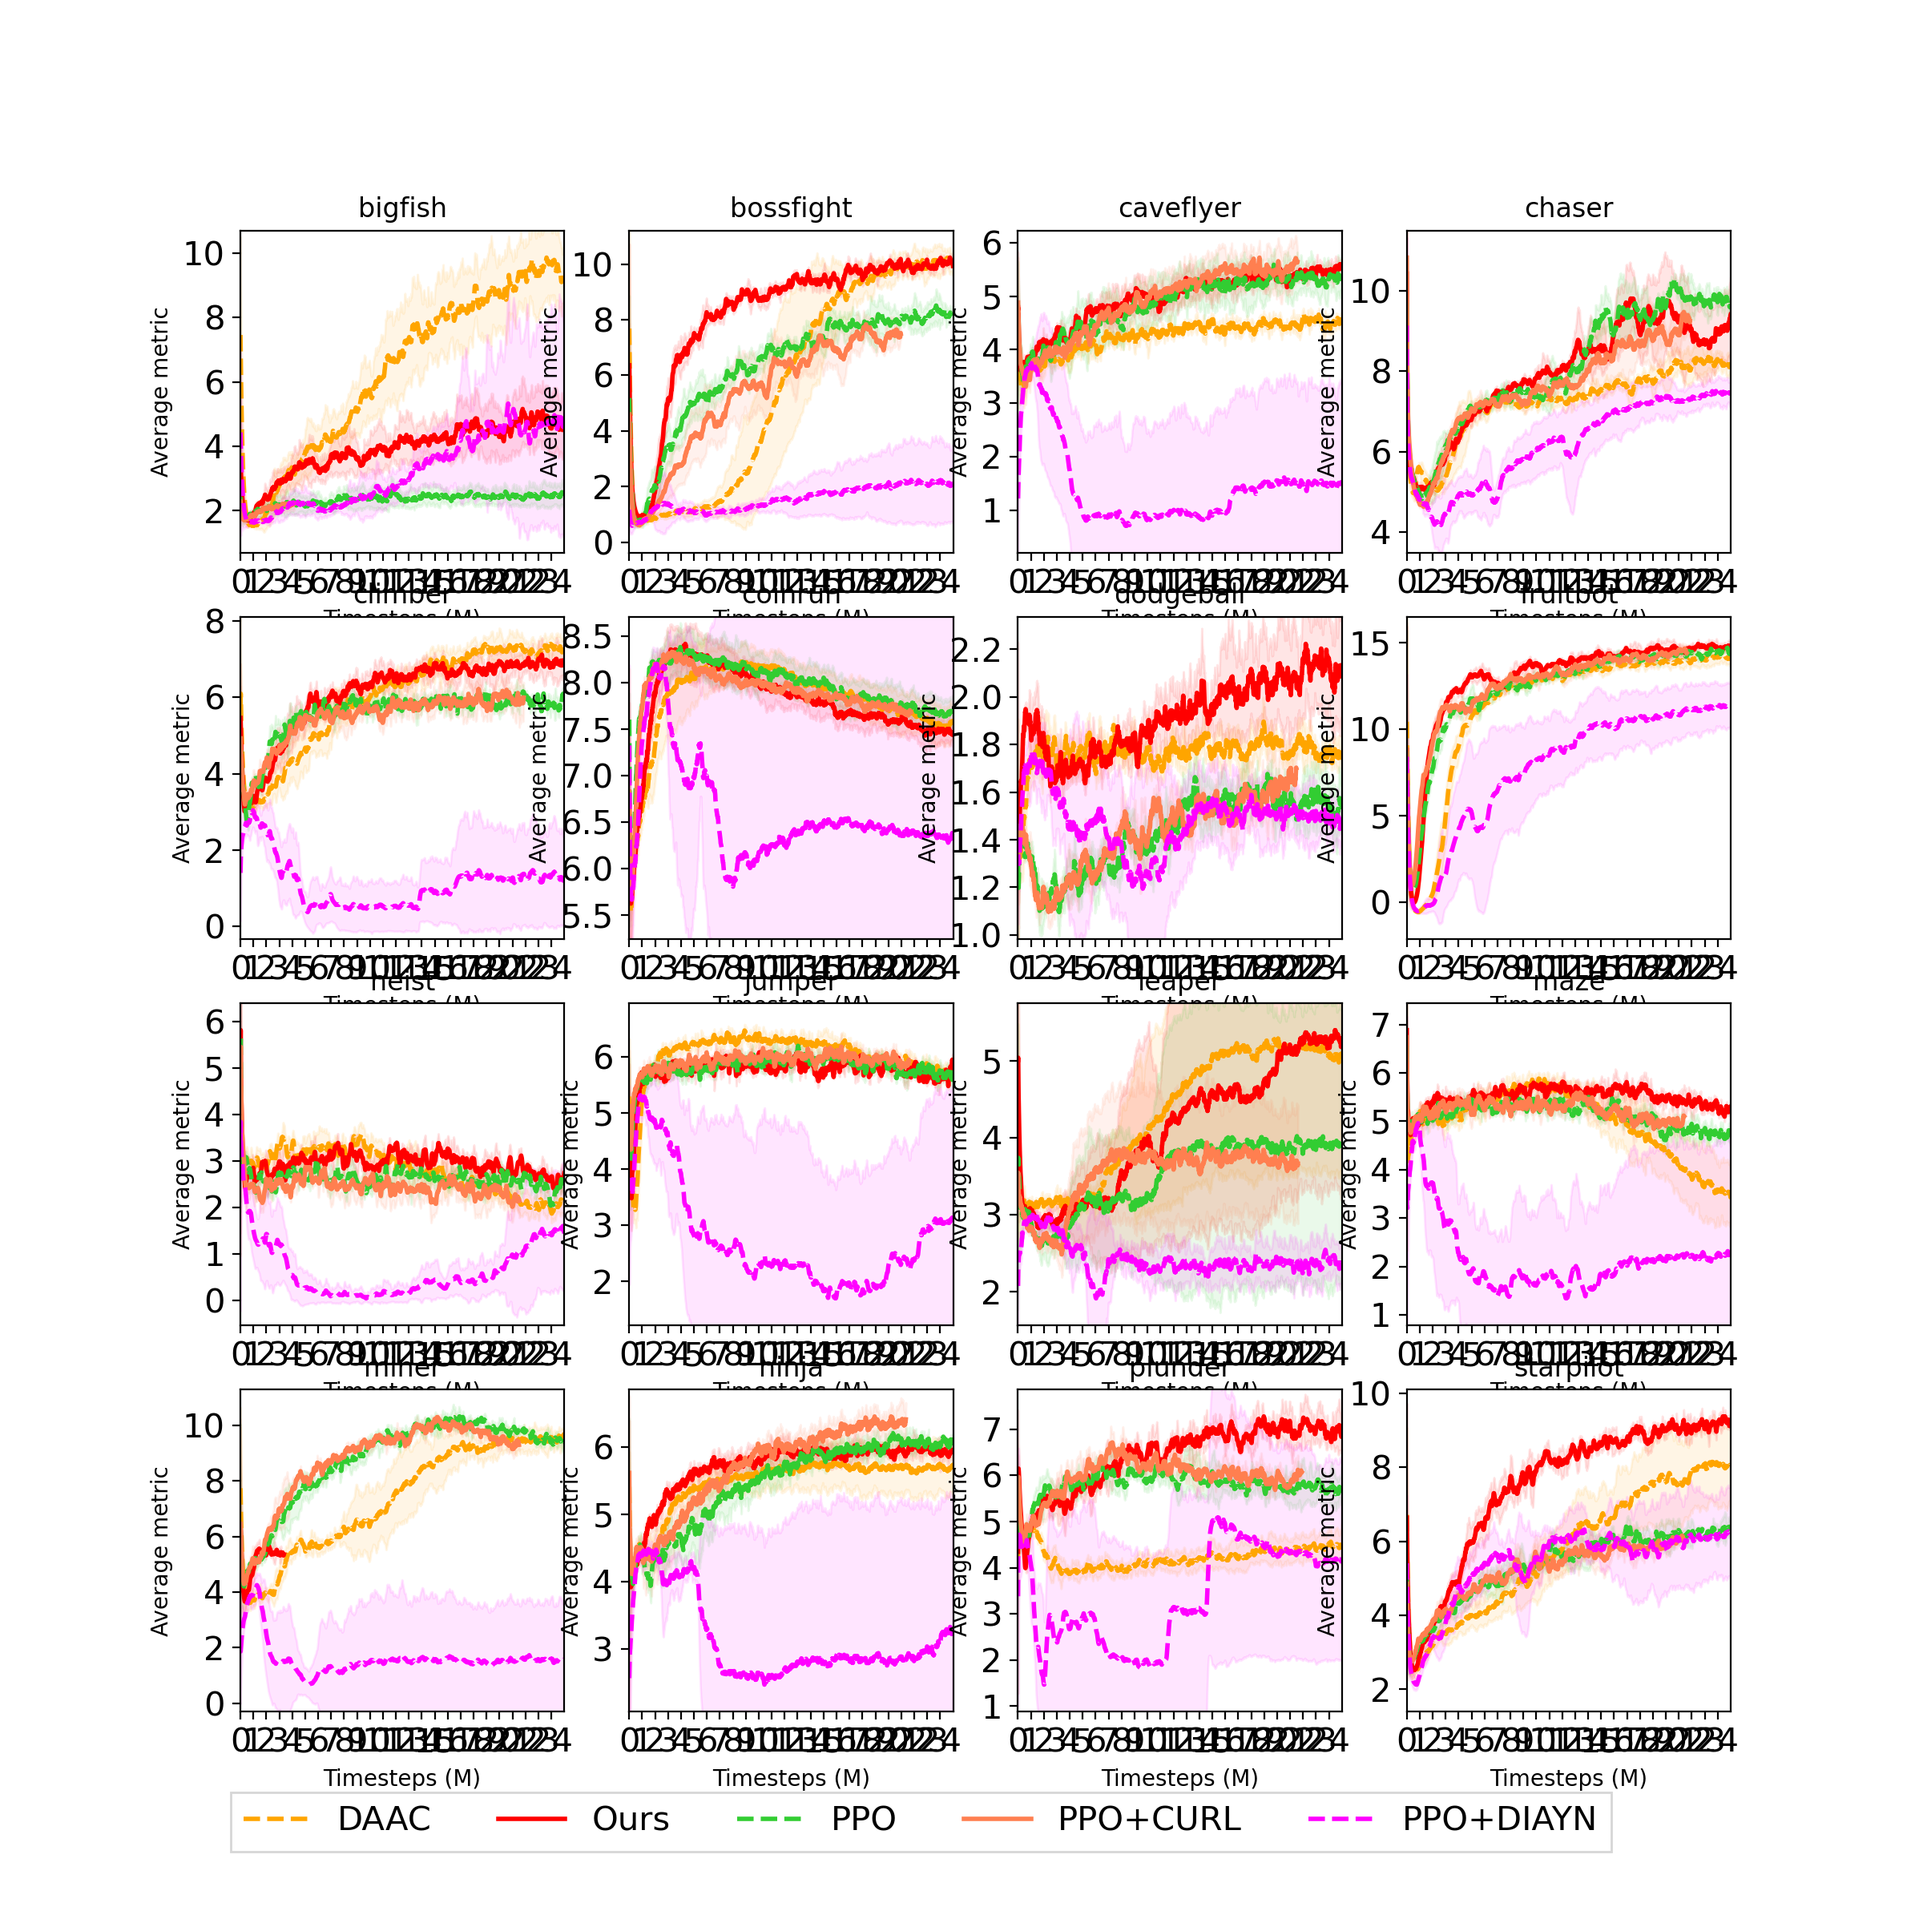
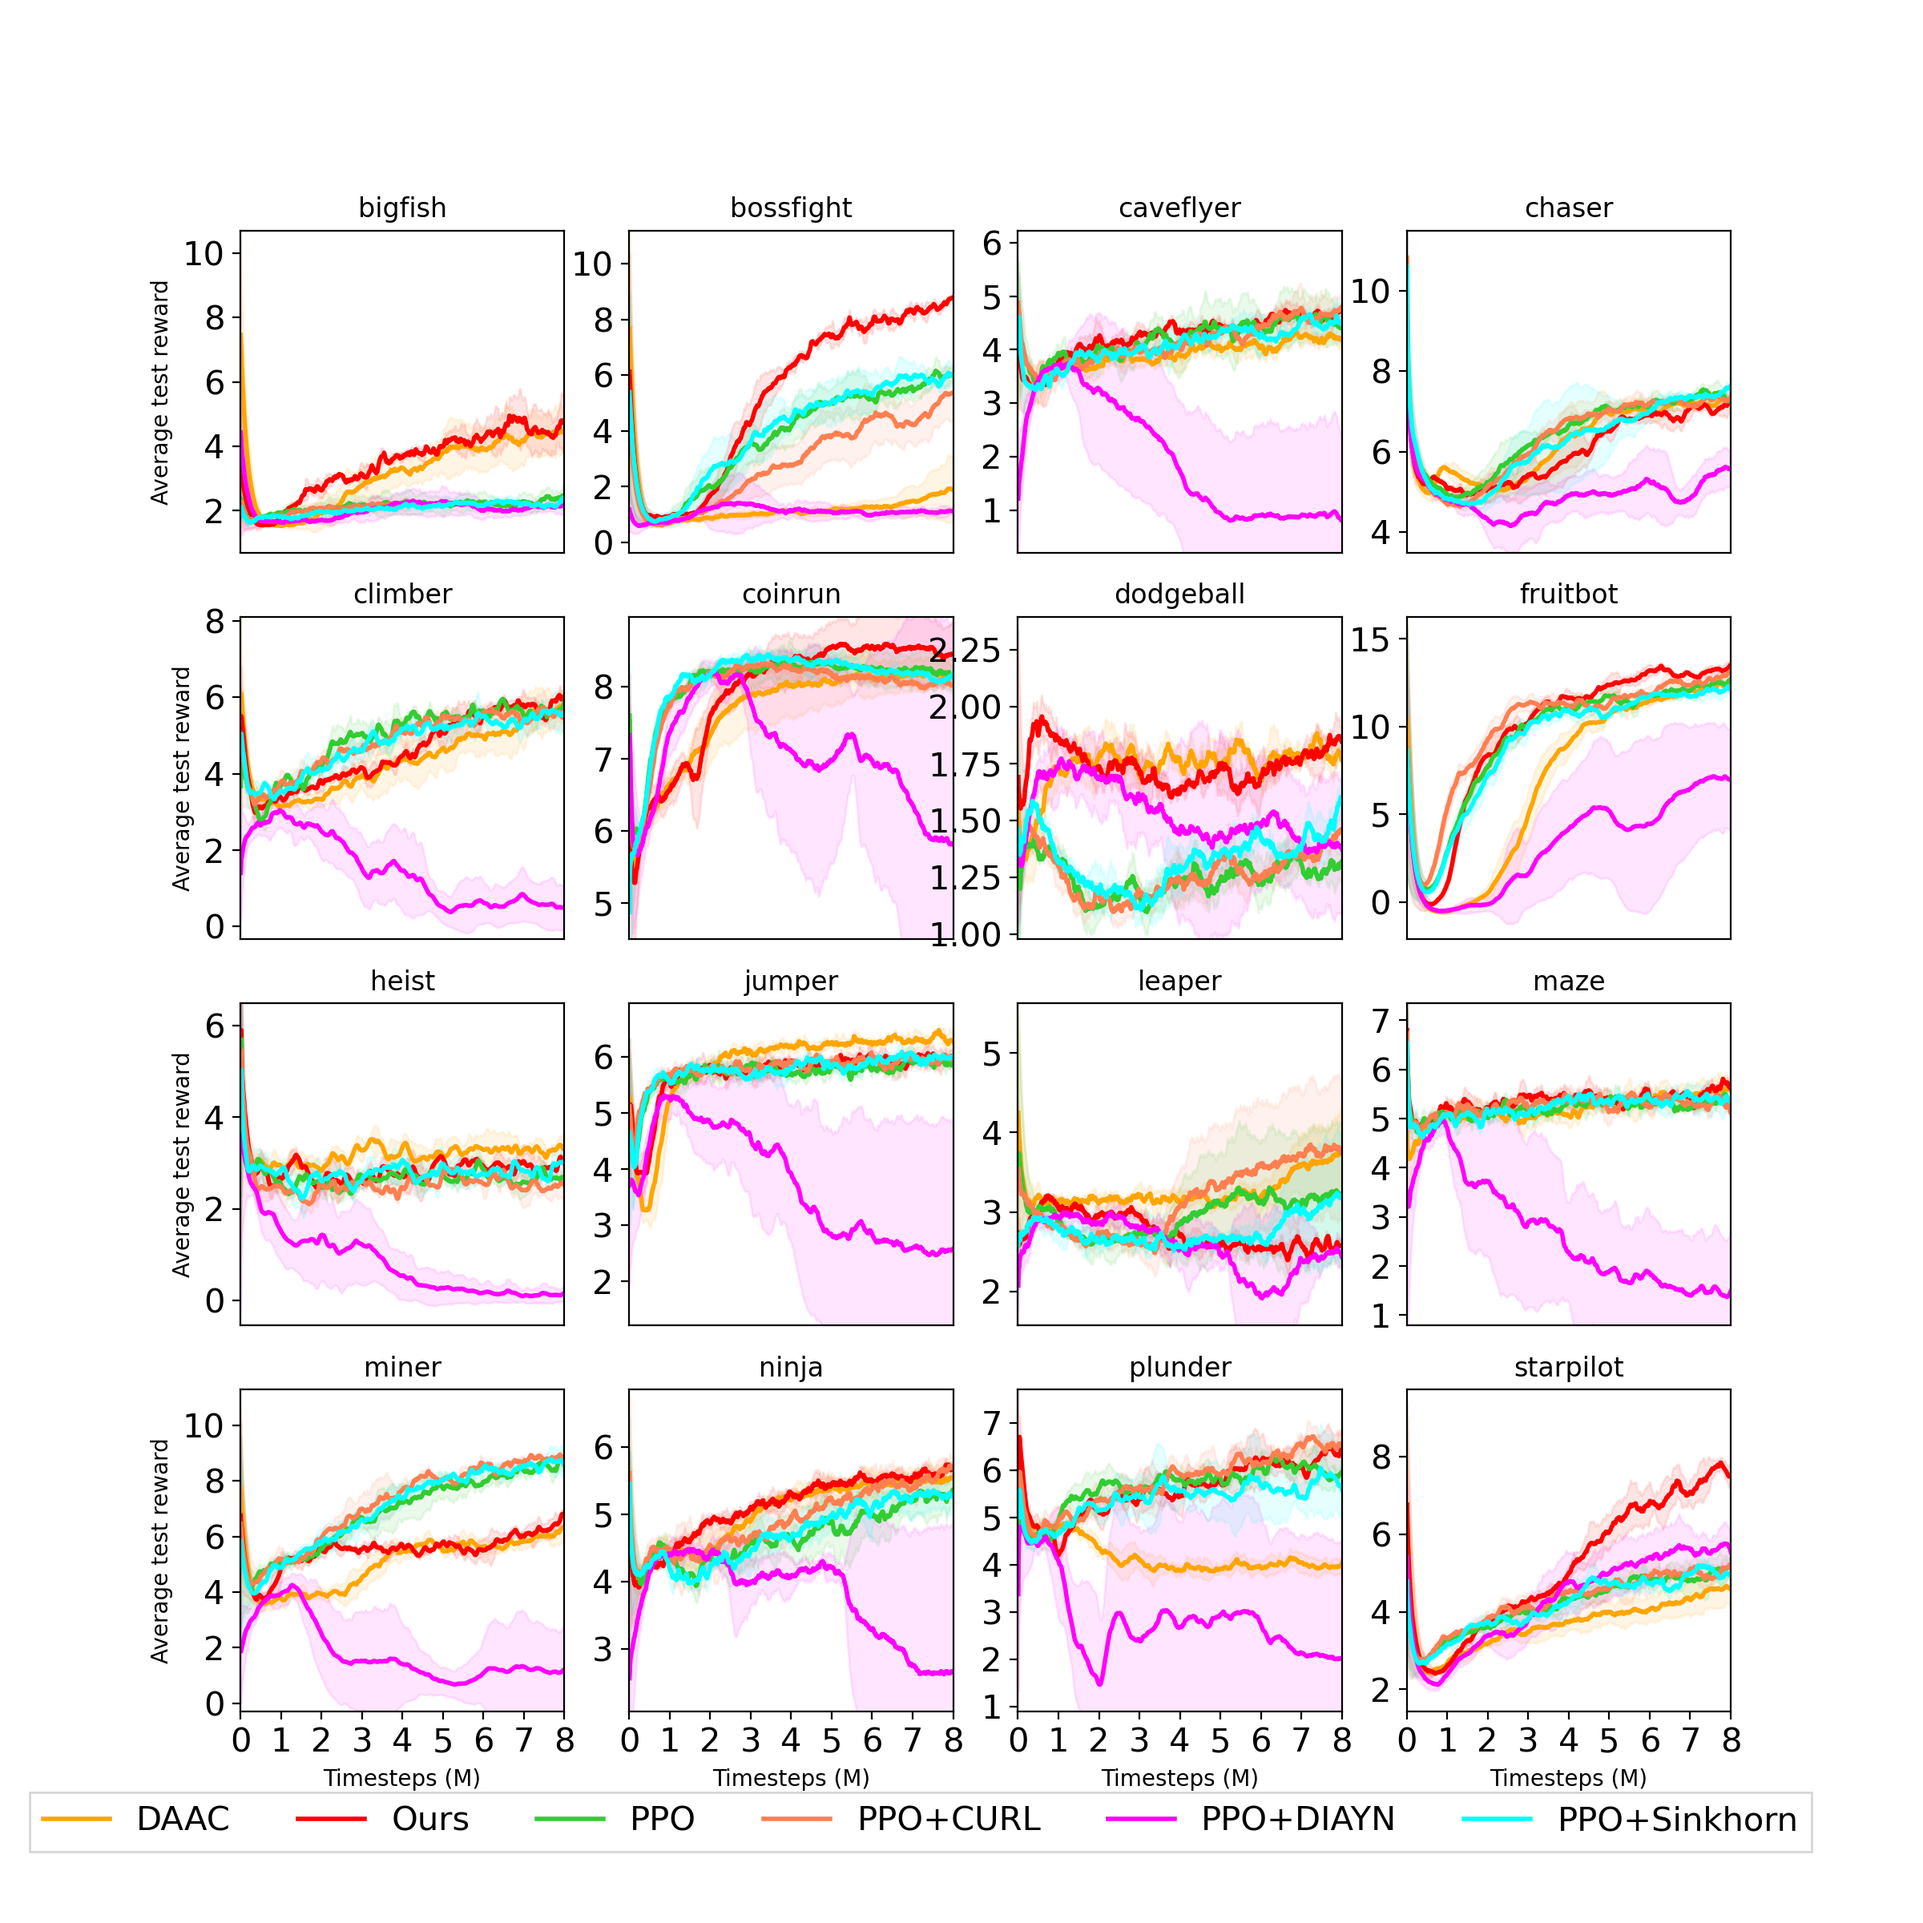
added U_t normalization

diff --git a/coinrun/coinrun/wandb_scripts/B__main_results.py b/coinrun/coinrun/wandb_scripts/B__main_results.py
@@ -11,11 +11,11 @@ import glob
 
 from download_wandb_data import load_WandB_csvs
 
-AGENTS = ["ppo_goal","ppo",'ppo_diayn',"ppo_curl","ppg"]
-CLEAN_NAMES_AGENTS = ['Ours',"PPO",'PPO+DIAYN',"PPO+CURL","DAAC"]
+AGENTS = ["ppo_goal_bogdan","ppo",'ppo_diayn',"ppo_curl",'ppo_skrl',"ppg"]
+CLEAN_NAMES_AGENTS = ['Ours',"PPO",'PPO+DIAYN',"PPO+CURL",'PPO+Sinkhorn',"DAAC"]
 
-selected_run_ids = {    'ppo_goal_bogdan':'(.*clean16envs.*)',
-                        'ppo_goal':'(.*sinkhornMYOW.*)',
+selected_run_ids = {    'ppo_goal_bogdan':'(.*jointSKMYOW__2__3__0.300000__200.*)|(.*skrl.*)',
+                        'ppo_goal':'(.*jointSKMYOW__20__3.*)',
                         'ppo':'.*',
                         'ppo_diayn':'.*',
                         'ppg':'.*',
@@ -27,16 +27,21 @@ files = glob.glob('../wandb_data/*.csv')
 params_to_load = ['agent','n_skills','n_knn','cluster_t','temp','environment']
 
 df = load_WandB_csvs(files,params_to_load,selected_run_ids,AGENTS,agent2label)
+df.loc[df['group'].apply(lambda x: 'skrl' in x),'agent'] = 'PPO+Sinkhorn'
 
 print('#######################')
 print('Groups:')
 print(df['group'].unique())
 print('#######################')
 
-metrics = ['eprew','eprew_eval','silhouette_score']
+# metrics = ['eprew','eprew_eval','silhouette_score']
+
+metrics = ['eprew_eval'] # ,'eprew'
 
 X_LEFT = 0
 X_RIGHT = 8e6
+REGION = 1e6
+EMA = 20
 
 rp = [-1029.86559098,  2344.5778132 , -1033.38786418,  -487.3693808 ,
          298.50245209,   167.25393272]
@@ -71,22 +76,24 @@ def set_run_attributes(agent):
         col = 'red'
     elif label == 'PPO':
         col = 'limegreen'
-        linestyle = '--'
+        linestyle = '-'
     elif label == 'PPO+DIAYN':
         col = 'fuchsia'
-        linestyle = '--'
+        linestyle = '-'
     elif label == 'DAAC':
         col = 'orange'
-        linestyle = '--'
+        linestyle = '-'
     elif label == 'PPO+CURL':
         col = 'coral'
+        linestyle = '-'
+    elif label == 'PPO+Sinkhorn':
+        col = 'cyan'
         linestyle = '-'
     
 
     # label = agent2label[label]
     return label, col, linestyle, linewidth, marker
 
-xlim = (0,25e6,5e6)
 
 table_eval = r"""
 \begin{table}[ht]
@@ -109,8 +116,6 @@ reported_scores_eval = np.zeros((16,len(CLEAN_NAMES_AGENTS)))
 
 table_train += "Env & " + ' & '.join(CLEAN_NAMES_AGENTS) +'\\\\ \n'
 reported_scores_train = np.zeros((16,len(CLEAN_NAMES_AGENTS)))
-
-metrics = ['eprew_eval','eprew']
 
 for metric in metrics:
     games_list = sorted(df['environment'].unique())
@@ -143,7 +148,7 @@ for metric in metrics:
         for agent,group_df in game_df.groupby('agent'):
             # agent = group_df['agent'].unique().item()
             print(env_name,agent)
-            group_df[metric] = group_df[metric].ewm(20).mean()
+            group_df[metric] = group_df[metric].ewm(EMA).mean()
             
             smallest_t =  group_df.groupby('UID').apply(len).min()
             acc = np.zeros((len(group_df['UID'].unique()),smallest_t))
@@ -167,10 +172,11 @@ for metric in metrics:
             max_y = max(max_y,(mu).max())
             min_y = min(min_y,(mu).min())
 
-            left_side = min(x.max()-1e6,X_RIGHT-1e6)
-            start_idx = np.max(np.where(np.logical_and(left_side<x,x<X_RIGHT))[0])
+            left_side = min(x.max()-REGION,X_RIGHT-REGION)
+            start_idx = np.min(np.where(np.logical_and(left_side<x,x<X_RIGHT))[0])
+            end_idx = np.max(np.where(np.logical_and(left_side<x,x<X_RIGHT))[0])
             # start_idx = len(mu)-10
-            best_idx = mu[:start_idx].argmax()#+start_idx
+            best_idx = mu[start_idx:end_idx].argmax()+start_idx
             methods_results[label] = (mu[best_idx],std[best_idx])
             
         a_idx = 0
@@ -186,13 +192,16 @@ for metric in metrics:
                 reported_scores_train[e_idx,a_idx] = methods_results[agent][0]
             a_idx += 1
 
-        major_ticks = np.arange(X_LEFT, X_RIGHT, 1e6)
+        major_ticks = np.arange(X_LEFT, X_RIGHT+100, 1e6)
 
-        ax.set_xticks(major_ticks)
+        if (row_idx == 3 and e_idx != 11) or e_idx == 15:
+            ax.set_xticks(major_ticks)
+        else:
+            ax.set_xticks([])
         
         ticks_x = ticker.FuncFormatter(lambda x, pos: '{0:g}'.format(x/1e6))
         ax.xaxis.set_major_formatter(ticks_x)
-
+        
         for tick in ax.xaxis.get_major_ticks():
             tick.label.set_fontsize(15) 
         for tick in ax.yaxis.get_major_ticks():
@@ -205,8 +214,13 @@ for metric in metrics:
         ax.set_xlim(X_LEFT,X_RIGHT)
         
         ax.set_title(env_name)
-        ax.set_xlabel('Timesteps (M)')
-        ax.set_ylabel('Average metric')
+        if (row_idx == 3 and e_idx != 11) or e_idx == 15:
+            ax.set_xlabel('Timesteps (M)')
+        if col_idx == 1:
+            if metric == 'eprew_eval':
+                ax.set_ylabel('Average test reward')
+            if metric == 'eprew':
+                ax.set_ylabel('Average train reward')
 
         handles, labels = ax.get_legend_handles_labels()
 
@@ -216,7 +230,7 @@ for metric in metrics:
         if metric == 'eprew':
             row_str_train += '\\\\ \n'
             table_train += row_str_train
-
+        # plt.tight_layout()
 
     
     plt.legend(handles,labels, loc='upper center', bbox_to_anchor=(-1.5, -0.2),fancybox=False, shadow=False,prop={'size': 15},ncol=len(handles)) # new_handles, new_labels,
@@ -249,4 +263,3 @@ table_train += r"""
 """
 print(table_eval)
 # print(table_train)
-# import ipdb;ipdb.set_trace()

diff --git a/coinrun/coinrun/ppo2_goal_bogdan.py b/coinrun/coinrun/ppo2_goal_bogdan.py
@@ -363,7 +363,7 @@ class Model(object):
         assert len(info_loss) == 1
         info_loss = info_loss[0]
 
-        p_t = tf.nn.log_softmax(tf.linalg.matmul(train_model.u_t, train_model.protos) / Config.TEMP, axis=1)
+        p_t = tf.nn.log_softmax(tf.linalg.matmul(tf.linalg.normalize(train_model.u_t, axis=1, ord='euclidean')[0], train_model.protos) / Config.TEMP, axis=1)
         proto_loss = -tf.compat.v1.reduce_mean(tf.compat.v1.reduce_sum(tf.stop_gradient(train_model.codes) * p_t, axis=1))
         proto_loss_no_stopgrad = -tf.compat.v1.reduce_mean(tf.compat.v1.reduce_sum(train_model.codes * p_t, axis=1))
 
@@ -374,8 +374,6 @@ class Model(object):
 
         loss = pg_loss - entropy * ent_coef + vf_loss * vf_coef + l2_loss * Config.L2_WEIGHT + beta * info_loss
         aux_loss =  proto_loss_no_stopgrad + myow_loss #+ vf_loss_i*vf_coef 
-
-        # joint sinkhorn+myow works bad
 
         
         if Config.JOINT_SKRL:

diff --git a/coinrun/coinrun/policies_bogdan.py b/coinrun/coinrun/policies_bogdan.py
@@ -256,8 +256,6 @@ class CnnPolicy(object):
 
         
         if Config.MYOW:
-
-
             """
             MYOW where k-NN neighbors are replaced by Sinkhorn clusters
             """
@@ -314,7 +312,7 @@ class CnnPolicy(object):
                 nearby_batch_vecs = tf.reshape(tf.gather(cluster_membership_list,tf.cast(nearby_cluster_idx,tf.int32)),(-1,))
                 N_target = tf.gather(y_target, nearby_batch_vecs)
                 v_target = v_target_net(N_target)
-                r_target = r_target_net(v_target)
+                # r_target = r_target_net(v_target)
 
                 self.myow_loss += tf.reduce_mean(cos_loss(r_online, v_target)) #+ tf.reduce_mean(cos_loss(r_target, v_online))
 
